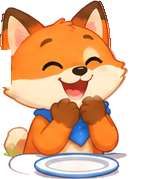
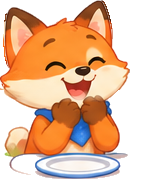
fix(picnic): Teddy's grin without the cookie's edge, and Fox's cheek whole
The cookie Teddy held against his chin is made white before his face is
cut, so no piece of it breaks his jaw; the mask for the top of Fox's tail no
longer cuts into his cheek.

diff --git a/scripts/cut-picnic.py b/scripts/cut-picnic.py
@@ -274,7 +274,11 @@ SMILES_ALREADY = {'bunny'}
 # Beside some eating faces, at neck height, is something that is not the head
 # — the top of Fox's tail — and would hang off the new picture as a stray line:
 # everything left of this share of the width, below this share of the height, goes.
-HEAD_LEFT = {'fox': (0.26, 0.48)}
+HEAD_LEFT = {'fox': (0.17, 0.5)}
+
+# The cookie Teddy holds against his chin, on the sheet (centre and radii):
+# made white before his eating face is cut, so it leaves with the background.
+HELD = {'teddy': (1028, 141, 27, 25)}
 
 # The sizes the head is tried at, from a little smaller than the eating face to its own.
 HEAD_SCALES: dict = {}
@@ -283,7 +287,12 @@ NECK_FEATHER = 14
 
 def beaming(board, friend):
     """The happy picture with the eating face's big smile, and nothing in its paws."""
-    eat = cut(board, SPRITES[f'{friend}-eating'])
+    source = board
+    if friend in HELD:
+        source = board.copy()
+        cx, cy, rx, ry = HELD[friend]
+        ImageDraw.Draw(source).ellipse((cx - rx, cy - ry, cx + rx, cy + ry), fill=(255, 255, 255))
+    eat = cut(source, SPRITES[f'{friend}-eating'])
     pad = 40
     # Room around the body, so a head a little wider than the old one is never clipped.
     body = np.pad(np.asarray(cut(board, SPRITES[f'{friend}-happy'])).astype(float), ((pad, pad), (pad, pad), (0, 0)))
